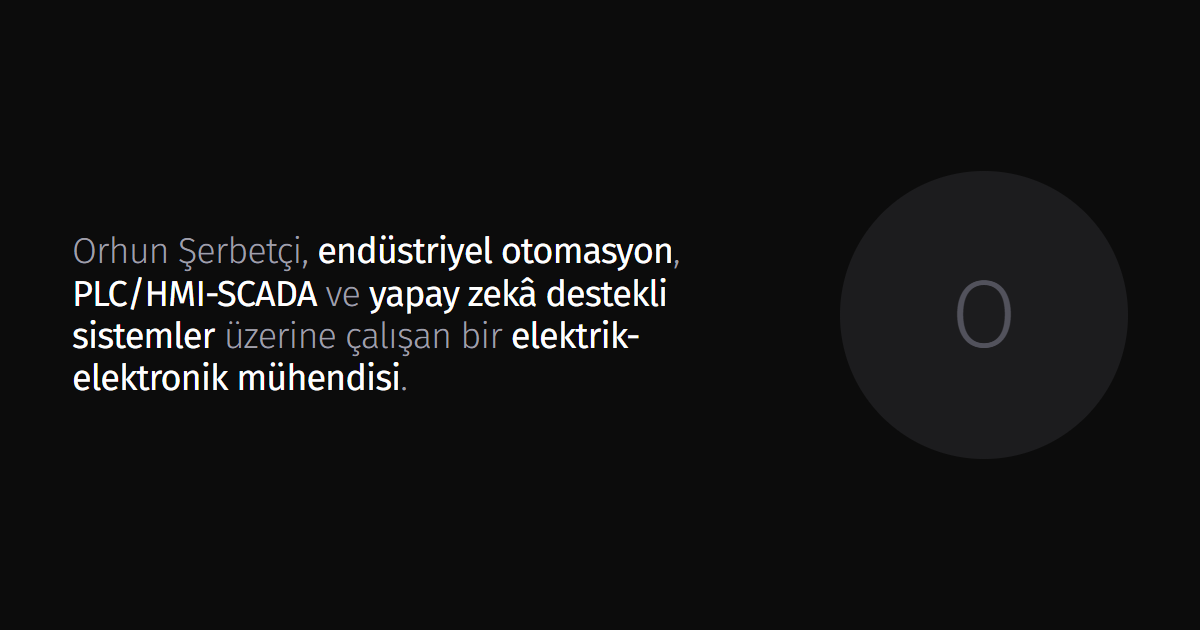
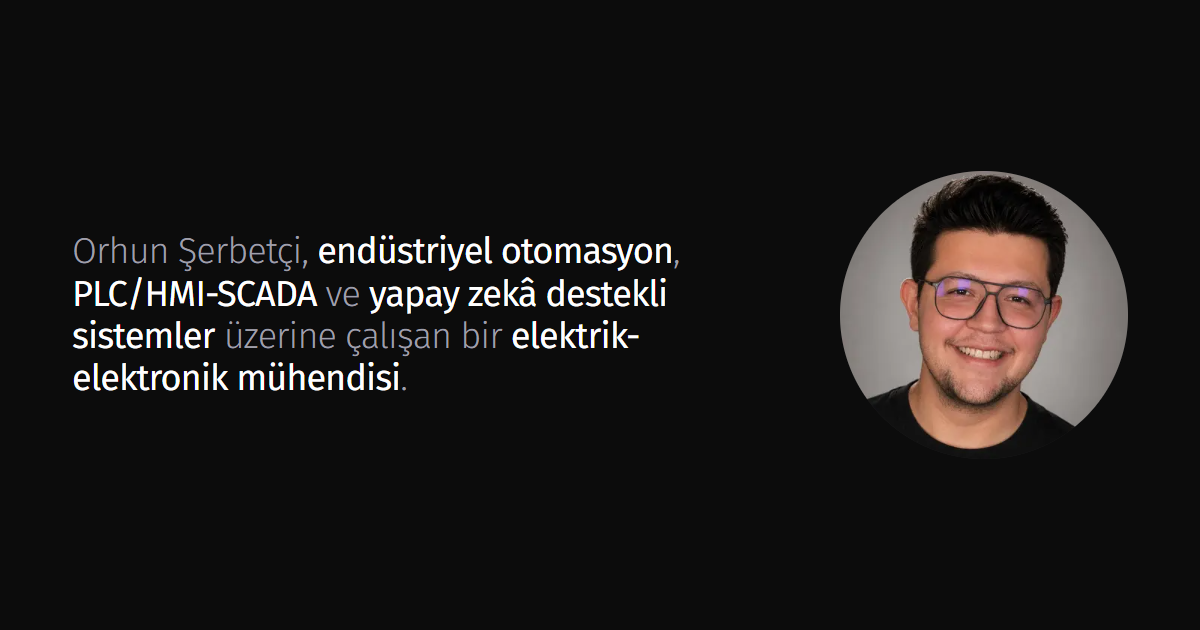
feat: profil fotoğrafı eklendi
- public/me.jpg (800x800, yüz ortalı kare kesit)
- og.png fotoğraflı olarak yeniden üretildi
- Person JSON-LD'ye image alanı

Claude-Session: https://claude.ai/code/session_01MqJEut4eFdj1zj7srjWRng

Changed region(s): [[0.6783, 0.2714, 0.9558, 0.7238]]

diff --git a/src/lib/site.ts b/src/lib/site.ts
@@ -10,7 +10,7 @@ export const site = {
   /** Kenar çubuğunun üstündeki marka yazısı: kalın + soluk kısım */
   brand: { strong: "orhun", dim: "serbetci.com" },
   /** Ana sayfadaki yuvarlak fotoğraf. public/ altına koyup yolunu yaz, ör. "/me.jpg". Boşsa baş harf gösterilir. */
-  photo: "",
+  photo: "/me.jpg",
   url: "https://orhunserbetci.com",
   links: {
     email: "orhunsrbtc@gmail.com",

diff --git a/src/lib/seo.tsx b/src/lib/seo.tsx
@@ -61,6 +61,7 @@ export function personJsonLd(locale: Locale) {
     "@id": personId,
     name: site.name,
     url: site.url,
+    ...(site.photo && { image: new URL(site.photo, site.url).toString() }),
     email: `mailto:${site.links.email}`,
     jobTitle: site.title[locale],
     description:
